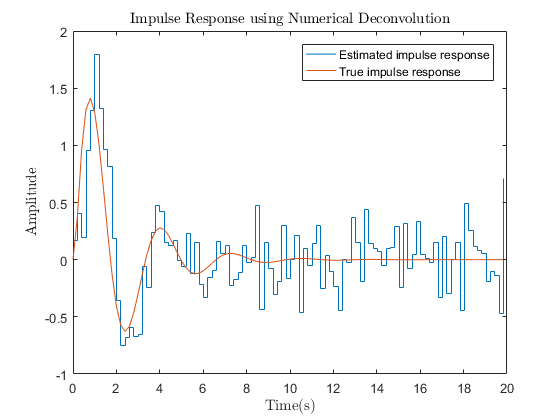
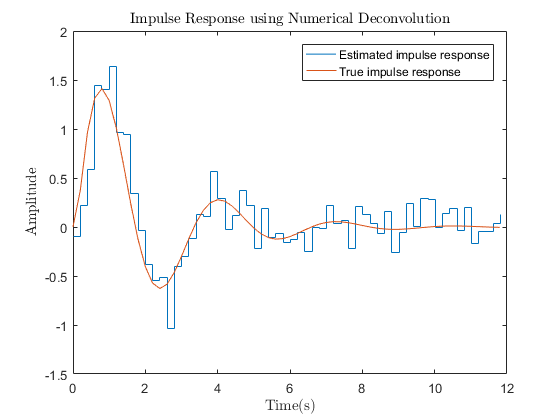
last modifications

diff --git a/ce1_1.m b/ce1_1.m
@@ -37,7 +37,7 @@ sim('ce1_1_sim')
 figure
 stairs(simin.time(1:maxTime/Te), simout(1:maxTime/Te)/saturation); hold on;
 
-noiseVariance = 0.01;
+noiseVariance = 0.1;
 sim('ce1_1_sim')
 
 stairs(simin.time(1:maxTime/Te), simout(1:maxTime/Te)/saturation);hold on; 
@@ -67,7 +67,7 @@ sim('ce1_1_sim')
 figure
 stairs(simin.time(1:maxTime/Te), simout(1:maxTime/Te)/(saturation*Te)); hold on;
 
-noiseVariance = 0.01;
+noiseVariance = 0.1;
 sim('ce1_1_sim')
 
 stairs(simin.time(1:maxTime/Te), simout(1:maxTime/Te)/(saturation*Te));hold on; 
@@ -121,7 +121,7 @@ sim('ce1_1_sim')
 U = toeplitz(u, [u(1);zeros(N-1,1)]);
 Y = simout;
 
-k = 300;
+k = 60;
 Uk = U(:,1:k);
 
 theta = pinv(Uk)*Y;
@@ -130,11 +130,11 @@ theta = theta/Te;
 %theta = U\Y;
 
 figure
-stairs(simin.time(1:maxTime/Te), theta(1:maxTime/Te));hold on;
+stairs(simin.time(1:k), theta(1:k));hold on;
 G = tf([4],[1,1,4]);
 G_discrete = c2d(G, Te, 'zoh');
 [G_impulse, G_time] = impulse(G_discrete, sim_time-Te);
-plot(G_time(1:maxTime/Te), G_impulse(1:maxTime/Te)); 
+plot(G_time(1:k), G_impulse(1:k)); 
 
 
 title('Impulse Response using Numerical Deconvolution','Interpreter','latex')
